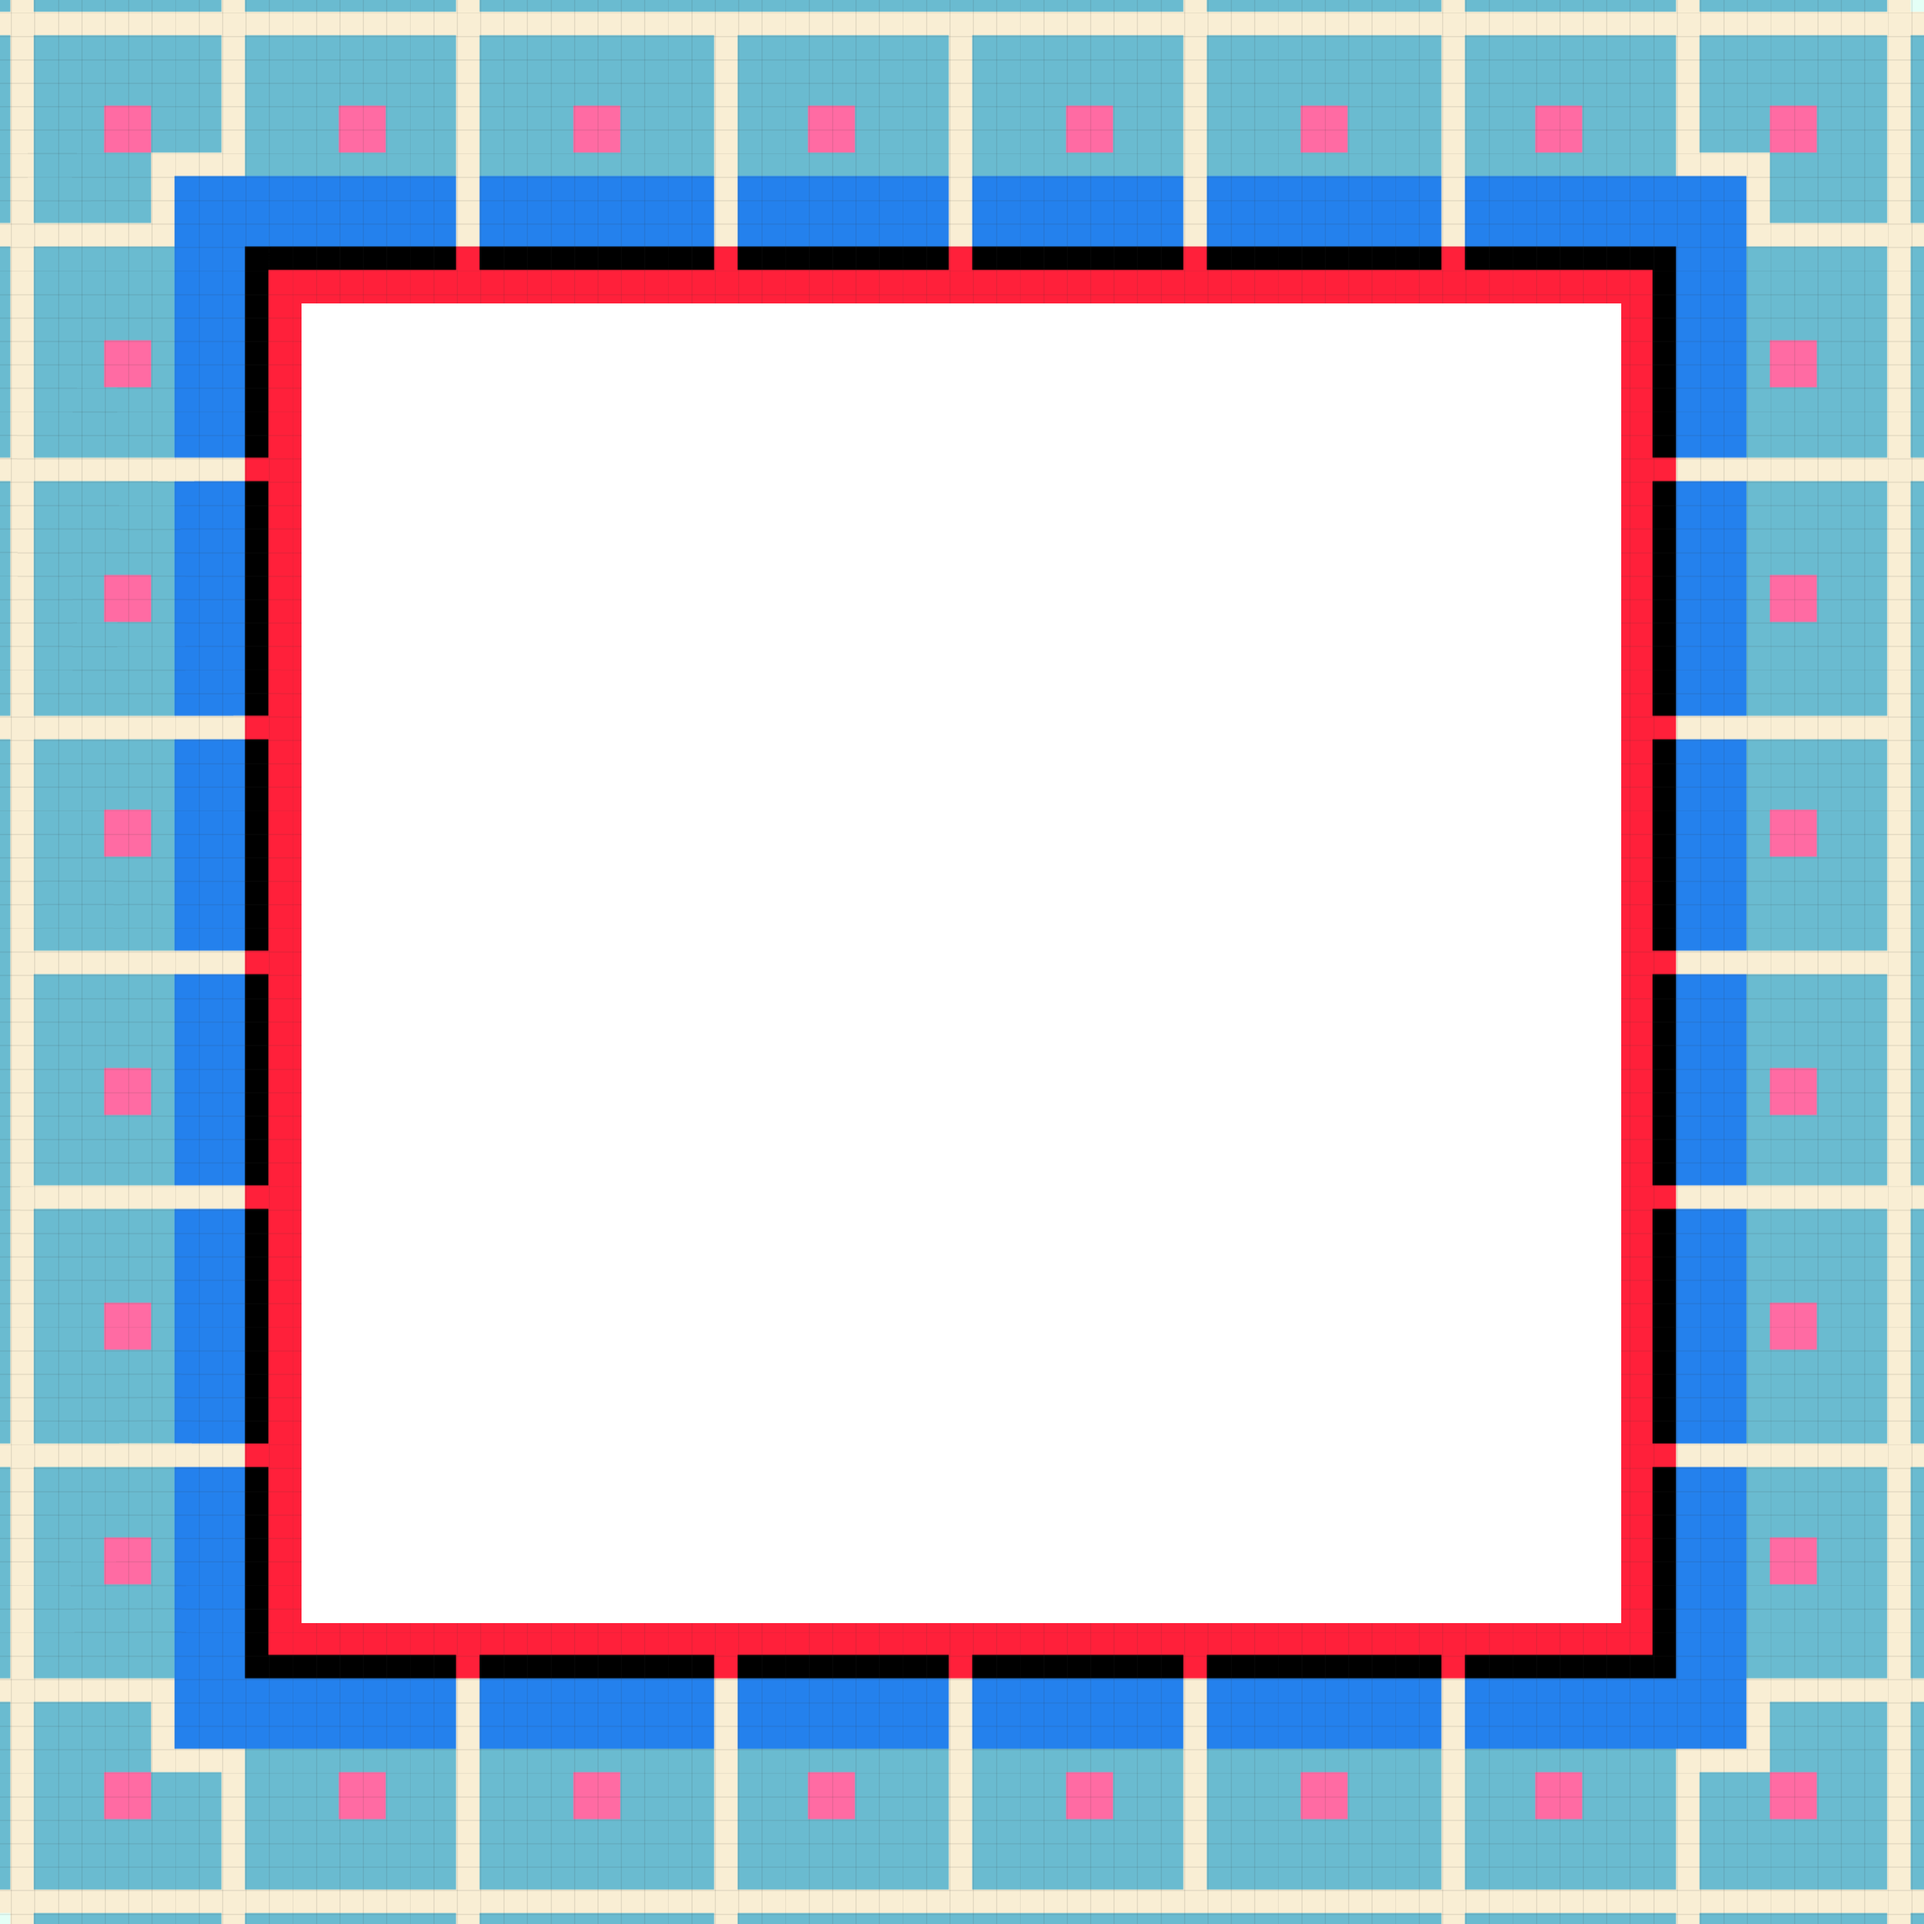
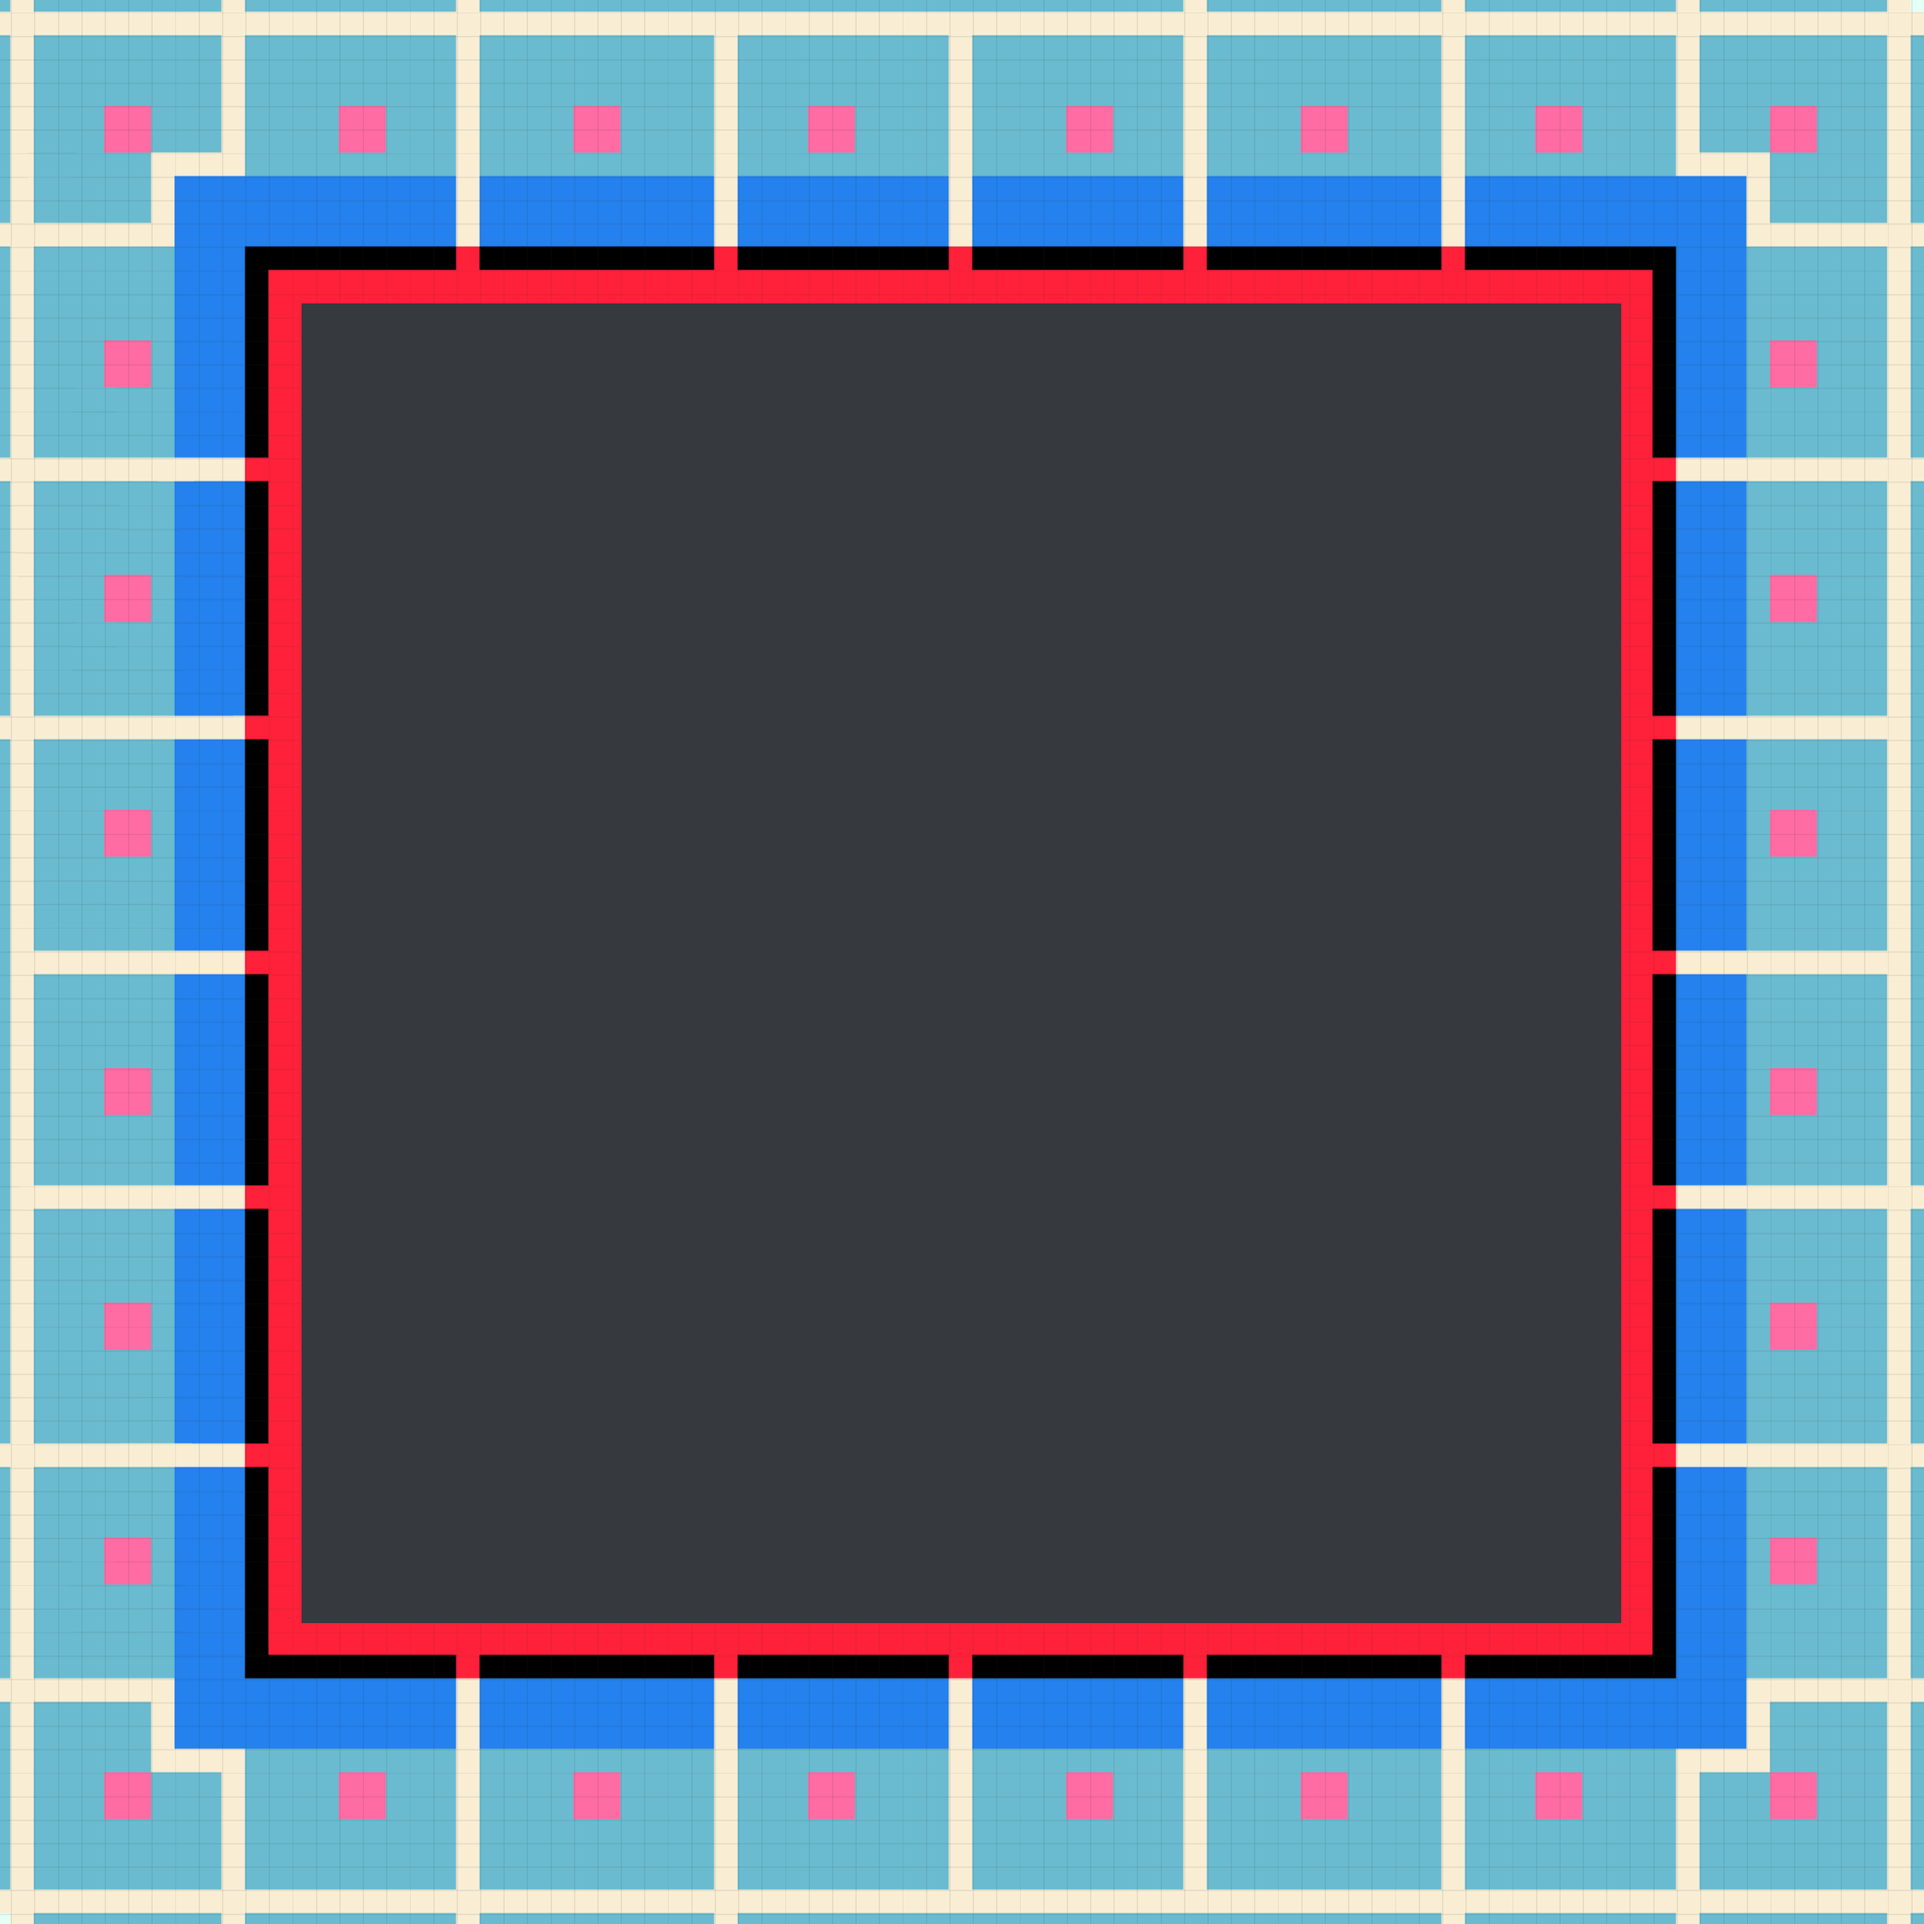
improved css

diff --git a/Style.css b/Style.css
@@ -1,6 +1,20 @@
+#webpage{
+  background-color: #36393E;
+}
+
 #Headline {
     font-size: 75px;
     font-family: Arial, Helvetica, sans-serif;
+    color: #00008B;
+    text-shadow:
+      -2px -2px 0 #FF8C00,
+      0   -2px 0 #FF8C00,
+      2px -2px 0 #FF8C00,
+      2px  0   0 #FF8C00,
+      2px  2px 0 #FF8C00,
+      0    2px 0 #FF8C00,
+      -2px  2px 0 #FF8C00,
+      -2px  0   0 #FF8C00;
     text-align: center;
     margin-top: 0px;
 }
@@ -9,6 +23,16 @@
     font-size: 20px;
     font-family: Arial, Helvetica, sans-serif;
     font-style: italic;
+    color: #00008B;
+    text-shadow:
+      -1px -1px 0 #FF8C00,
+      0   -1px 0 #FF8C00,
+      1px -1px 0 #FF8C00,
+      1px  0   0 #FF8C00,
+      1px  1px 0 #FF8C00,
+      0    1px 0 #FF8C00,
+      -1px  1px 0 #FF8C00,
+      -1px  0   0 #FF8C00;
     text-align: center;
     margin-top: -50px;
 }
@@ -18,7 +42,7 @@
     width: 1525px;
     height: 1525px;
     position: relative;
-    border: 1px solid black;
+    border: 1px solid #FF8C00;
     left: 50%;
     transform: translate(-50%);
 }
@@ -35,14 +59,25 @@
 #GenesisRanking {
     font-size: 75px;
     font-family: Arial, Helvetica, sans-serif;
+    color: #00008B;
+    text-shadow:
+      -1.5px -1.5px 0 #FF8C00,
+      0   -1.5px 0 #FF8C00,
+      1.5px -1.5px 0 #FF8C00,
+      1.5px  0   0 #FF8C00,
+      1.5px  1.5px 0 #FF8C00,
+      0    1.5px 0 #FF8C00,
+      -1.5px  1.5px 0 #FF8C00,
+      -1.5px  0   0 #FF8C00;
     text-align: center;
     margin-top: 500px;
     text-decoration: underline;
 }
 
 #GList{
-    font-size: 35px;
+    font-size: 40px;
     font-family: Arial, Helvetica, sans-serif;
+    color: #FF8C00;
     text-align: center;
     margin-top: -75px;
 }

diff --git a/index.html b/index.html
@@ -9,7 +9,7 @@
     <title>Document</title>
 </head>
 
-<body onload="GetLandData()">
+<body id="webpage" onload="GetLandData()">
     <div id="Ueberschrift">
         <h1 id="Headline">GENESIS LAND</h1>
             <p id="Underline">Existing Genesis plots from the Q1 sale and their owners</p>
